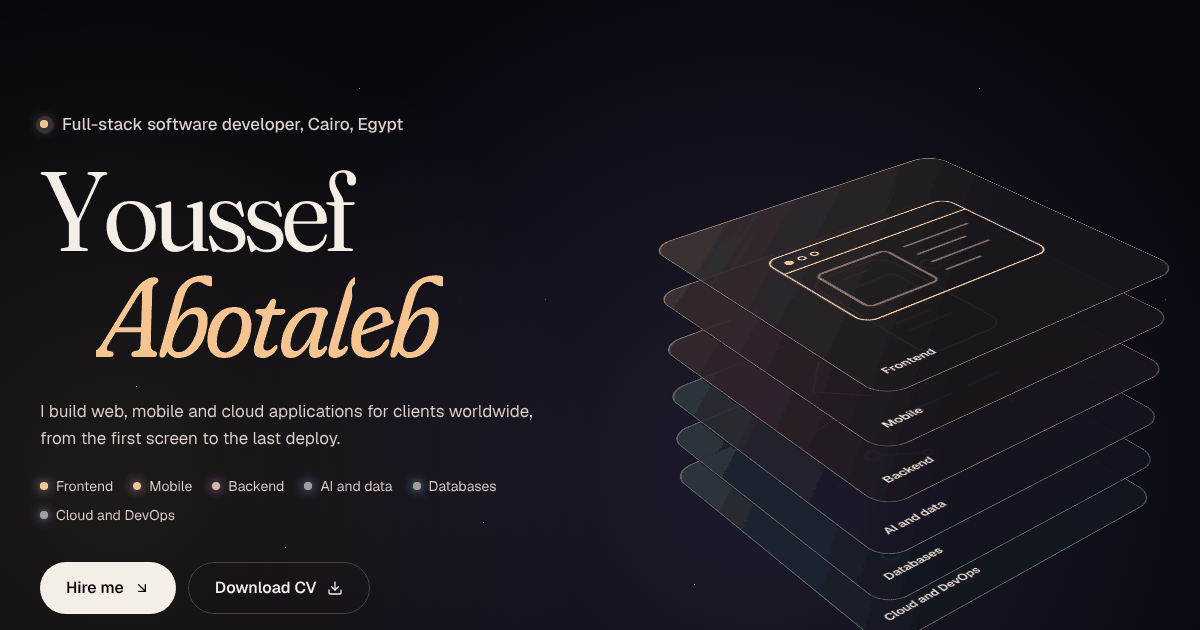
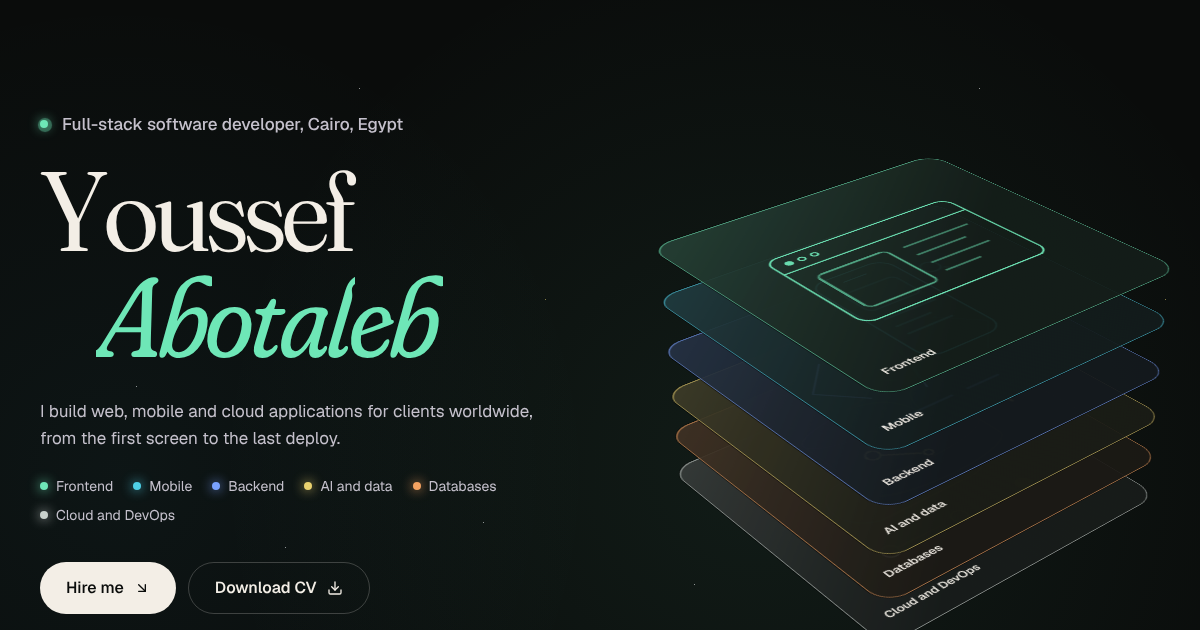
Swap the purple and peach glow for a graphite and mint colour scheme

diff --git a/src/index.css b/src/index.css
@@ -7,14 +7,14 @@
    Six plates (frontend to cloud) float in depth; each owns one hue, and
    every project and skill borrows the hue of the layer it belongs to. */
 @theme {
-  --color-night: #07080d;
-  --color-night-2: #0c0d15;
-  --color-plate: #12131d;
+  --color-night: #0a0c0b;
+  --color-night-2: #101312;
+  --color-plate: #141817;
   --color-ink: #f3eee6;
   --color-ink-2: #c5c1cc;
   --color-dim: #8a8798;
   --color-rule: rgb(243 238 230 / 0.1);
-  --color-glow: #f6c58f;
+  --color-glow: #6ee7b7;
   --font-display: "Fraunces Variable", "Iowan Old Style", Georgia, serif;
   --font-body: "Geist Variable", system-ui, sans-serif;
 }
@@ -42,7 +42,7 @@ body { margin: 0; background: var(--color-night); overflow-x: clip; }
 ::selection { background: var(--color-glow); color: var(--color-night); }
 :focus-visible { outline: 2px solid var(--color-glow); outline-offset: 3px; border-radius: 4px; }
 
-html { scrollbar-color: #2b2c3a var(--color-night); scrollbar-width: thin; }
+html { scrollbar-color: #2a302e var(--color-night); scrollbar-width: thin; }
 
 /* ── Type ───────────────────────────────────────────── */
 .display {
@@ -105,11 +105,11 @@ html { scrollbar-color: #2b2c3a var(--color-night); scrollbar-width: thin; }
   background-image:
     radial-gradient(1px 1px at 12% 18%, #fff 50%, transparent 51%),
     radial-gradient(1px 1px at 78% 8%, #fff 50%, transparent 51%),
-    radial-gradient(1.5px 1.5px at 34% 62%, #f6c58f 50%, transparent 51%),
+    radial-gradient(1.5px 1.5px at 34% 62%, #6ee7b7 50%, transparent 51%),
     radial-gradient(1px 1px at 58% 38%, #fff 50%, transparent 51%),
-    radial-gradient(1.5px 1.5px at 88% 72%, #a98bf0 50%, transparent 51%),
+    radial-gradient(1.5px 1.5px at 88% 72%, #e9d16f 50%, transparent 51%),
     radial-gradient(1px 1px at 22% 86%, #fff 50%, transparent 51%),
-    radial-gradient(1px 1px at 66% 90%, #6fd6cf 50%, transparent 51%),
+    radial-gradient(1px 1px at 66% 90%, #c8d1cc 50%, transparent 51%),
     radial-gradient(1px 1px at 46% 12%, #fff 50%, transparent 51%);
   background-size: 620px 620px;
 }
@@ -121,7 +121,7 @@ html { scrollbar-color: #2b2c3a var(--color-night); scrollbar-width: thin; }
   position: absolute; inset: 0; border-radius: 26px;
   border: 1px solid color-mix(in oklab, var(--c) 62%, transparent);
   background:
-    linear-gradient(140deg, color-mix(in oklab, var(--c) 26%, #0b0c13) 0%, color-mix(in oklab, var(--c) 7%, #0b0c13) 62%);
+    linear-gradient(140deg, color-mix(in oklab, var(--c) 26%, #0d100f) 0%, color-mix(in oklab, var(--c) 7%, #0d100f) 62%);
   color: var(--c);
   box-shadow: 0 0 0 1px rgb(0 0 0 / 0.5), inset 0 1px 0 color-mix(in oklab, var(--c) 55%, transparent);
   opacity: 0.94;

diff --git a/src/components/Hero.jsx b/src/components/Hero.jsx
@@ -47,8 +47,8 @@ function MobileHero() {
   return (
     <section id="top" ref={ref} className="relative overflow-hidden">
       <motion.div className="stars" style={{ y: reduce ? 0 : starsY }} />
-      <div className="aura right-[-40%] top-[-12%] h-[110vw] w-[110vw]" style={{ '--c': '#a98bf0', opacity: 0.45 }} />
-      <div className="aura bottom-[-25%] left-[-45%] h-[110vw] w-[110vw]" style={{ '--c': '#f6c58f', opacity: 0.28 }} />
+      <div className="aura right-[-40%] top-[-12%] h-[110vw] w-[110vw]" style={{ '--c': '#6ee7b7', opacity: 0.22 }} />
+      <div className="aura bottom-[-25%] left-[-45%] h-[110vw] w-[110vw]" style={{ '--c': '#4fd1e8', opacity: 0.14 }} />
 
       <div className="relative mx-auto flex min-h-[100svh] max-w-[720px] flex-col px-5 pb-8 pt-[84px]">
         <motion.p {...fade(0.1)} className="flex w-fit items-center gap-2.5 rounded-full border border-rule bg-night/60 px-3.5 py-1.5 text-[13.5px] text-ink-2">
@@ -114,8 +114,8 @@ function DesktopHero() {
     <section id="top" ref={ref} className="relative overflow-hidden">
       <motion.div className="stars" style={{ y: reduce ? 0 : starsY }} />
       <motion.div style={{ y: reduce ? 0 : auraY }} className="pointer-events-none absolute inset-0">
-        <div className="aura right-[-18%] top-[-10%] h-[90vmax] w-[90vmax] lg:right-[-8%]" style={{ '--c': '#a98bf0', opacity: 0.5 }} />
-        <div className="aura bottom-[-30%] left-[-30%] h-[80vmax] w-[80vmax]" style={{ '--c': '#f6c58f', opacity: 0.32 }} />
+        <div className="aura right-[-18%] top-[-10%] h-[90vmax] w-[90vmax] lg:right-[-8%]" style={{ '--c': '#6ee7b7', opacity: 0.24 }} />
+        <div className="aura bottom-[-30%] left-[-30%] h-[80vmax] w-[80vmax]" style={{ '--c': '#4fd1e8', opacity: 0.16 }} />
       </motion.div>
 
       <div className="relative mx-auto grid min-h-[100svh] max-w-[1500px] items-center gap-2 px-5 pb-16 pt-16 md:px-10 lg:grid-cols-[minmax(0,6fr)_minmax(0,5fr)] lg:gap-6 lg:pb-20 lg:pt-28">

diff --git a/src/components/Contact.jsx b/src/components/Contact.jsx
@@ -65,17 +65,17 @@ export default function Contact() {
             <h3 className="display text-[clamp(30px,3vw,44px)]">Hiring for a project?</h3>
             <p className="mt-3 text-ink-2">Book me on a platform with milestone payments, or email the brief.</p>
             <div className="mt-7 border-t border-rule">
-              <Row href={ME.upwork} icon={SiUpwork} label="Upwork" note="Hire with milestones" color="#6fd6cf" />
-              <Row href={ME.fiverr} icon={SiFiverr} label="Fiverr" note="Fixed-price gigs" color="#f6c58f" />
+              <Row href={ME.upwork} icon={SiUpwork} label="Upwork" note="Hire with milestones" color="#c8d1cc" />
+              <Row href={ME.fiverr} icon={SiFiverr} label="Fiverr" note="Fixed-price gigs" color="#6ee7b7" />
             </div>
           </Rise>
           <Rise delay={0.1} className="rounded-[28px] border border-rule bg-night-2/90 p-6 md:p-10">
             <h3 className="display text-[clamp(30px,3vw,44px)]">Recruiting?</h3>
             <p className="mt-3 text-ink-2">Everything for a hiring decision: the CV, my profile and the code.</p>
             <div className="mt-7 border-t border-rule">
-              <Row href={ME.cv} icon={FiDownload} label="Download CV" note="PDF" download color="#e283b4" />
-              <Row href={ME.linkedin} icon={FaLinkedinIn} label="LinkedIn" note="Profile" color="#6fa3f7" />
-              <Row href={ME.github} icon={SiGithub} label="GitHub" note="Code" color="#a98bf0" />
+              <Row href={ME.cv} icon={FiDownload} label="Download CV" note="PDF" download color="#7aa2ff" />
+              <Row href={ME.linkedin} icon={FaLinkedinIn} label="LinkedIn" note="Profile" color="#f4a261" />
+              <Row href={ME.github} icon={SiGithub} label="GitHub" note="Code" color="#e9d16f" />
             </div>
           </Rise>
         </div>

diff --git a/src/components/About.jsx b/src/components/About.jsx
@@ -19,8 +19,8 @@ export default function About() {
         <div className="mt-14 grid gap-14 lg:grid-cols-[minmax(0,5fr)_minmax(0,7fr)] lg:gap-20">
           {/* portrait between two drifting plates of light */}
           <div ref={ref} className="relative mx-auto w-full max-w-[400px] px-6 lg:mx-0 lg:px-8">
-            <motion.span aria-hidden="true" style={{ y: reduce ? 0 : plateA, '--c': '#a98bf0' }} className="absolute -right-0 top-10 h-[72%] w-[62%] rounded-[28px] border border-[color-mix(in_oklab,var(--c)_60%,transparent)] bg-[color-mix(in_oklab,var(--c)_10%,transparent)]" />
-            <motion.span aria-hidden="true" style={{ y: reduce ? 0 : plateB, '--c': '#f6c58f' }} className="absolute bottom-6 left-0 h-[60%] w-[58%] rounded-[28px] border border-[color-mix(in_oklab,var(--c)_60%,transparent)] bg-[color-mix(in_oklab,var(--c)_8%,transparent)]" />
+            <motion.span aria-hidden="true" style={{ y: reduce ? 0 : plateA, '--c': '#4fd1e8' }} className="absolute -right-0 top-10 h-[72%] w-[62%] rounded-[28px] border border-[color-mix(in_oklab,var(--c)_60%,transparent)] bg-[color-mix(in_oklab,var(--c)_10%,transparent)]" />
+            <motion.span aria-hidden="true" style={{ y: reduce ? 0 : plateB, '--c': '#6ee7b7' }} className="absolute bottom-6 left-0 h-[60%] w-[58%] rounded-[28px] border border-[color-mix(in_oklab,var(--c)_60%,transparent)] bg-[color-mix(in_oklab,var(--c)_8%,transparent)]" />
             <motion.div
               className="relative overflow-hidden rounded-[28px] border border-rule"
               initial={reduce ? false : { clipPath: 'inset(100% 0 0 0 round 28px)' }}

diff --git a/src/components/Nav.jsx b/src/components/Nav.jsx
@@ -9,7 +9,7 @@ const LINKS = [
   { href: '#about', label: 'About' },
   { href: '#contact', label: 'Contact' },
 ]
-const COLORS = ['#f6c58f', '#e283b4', '#a98bf0', '#6fa3f7', '#6fd6cf']
+const COLORS = ['#6ee7b7', '#7aa2ff', '#e9d16f', '#f4a261', '#c8d1cc']
 
 export default function Nav() {
   const [open, setOpen] = useState(false)
@@ -61,7 +61,7 @@ export default function Nav() {
             <span className={`absolute h-[2px] w-6 rounded bg-ink transition-transform duration-300 ${open ? '-rotate-45' : 'translate-y-[5px]'}`} />
           </button>
         </div>
-        <motion.div style={{ scaleX: scrollYProgress, background: 'linear-gradient(90deg,#f6c58f,#f39c8c,#e283b4,#a98bf0,#6fa3f7,#6fd6cf)' }} className="h-[2px] origin-left" aria-hidden="true" />
+        <motion.div style={{ scaleX: scrollYProgress, background: 'linear-gradient(90deg,#6ee7b7,#4fd1e8,#7aa2ff,#e9d16f,#f4a261,#c8d1cc)' }} className="h-[2px] origin-left" aria-hidden="true" />
       </div>
 
       <AnimatePresence>

diff --git a/src/data/layers.js b/src/data/layers.js
@@ -1,12 +1,12 @@
 // The six layers of the stack. Every colour on the site comes from here:
 // a project or skill is tinted by the layer it belongs to.
 export const LAYERS = [
-  { id: 'frontend', name: 'Frontend', color: '#f6c58f' },
-  { id: 'mobile', name: 'Mobile', color: '#f39c8c' },
-  { id: 'backend', name: 'Backend', color: '#e283b4' },
-  { id: 'ai', name: 'AI and data', color: '#a98bf0' },
-  { id: 'data', name: 'Databases', color: '#6fa3f7' },
-  { id: 'cloud', name: 'Cloud and DevOps', color: '#6fd6cf' },
+  { id: 'frontend', name: 'Frontend', color: '#6ee7b7' },
+  { id: 'mobile', name: 'Mobile', color: '#4fd1e8' },
+  { id: 'backend', name: 'Backend', color: '#7aa2ff' },
+  { id: 'ai', name: 'AI and data', color: '#e9d16f' },
+  { id: 'data', name: 'Databases', color: '#f4a261' },
+  { id: 'cloud', name: 'Cloud and DevOps', color: '#c8d1cc' },
 ]
 
 export const layerColor = (id) => LAYERS.find((l) => l.id === id)?.color ?? '#b9b6c4'

diff --git a/index.html b/index.html
@@ -7,7 +7,7 @@
     <link rel="apple-touch-icon" sizes="180x180" href="%BASE_URL%apple-touch-icon.png" />
     <meta name="viewport" content="width=device-width, initial-scale=1.0, viewport-fit=cover" />
     <meta name="description" content="Youssef Abotaleb, full-stack software developer in Cairo. Web, mobile and cloud applications with React, Next.js, React Native, Node.js, Python and PHP." />
-    <meta name="theme-color" content="#07080d" />
+    <meta name="theme-color" content="#0a0c0b" />
     <meta property="og:title" content="Youssef Abotaleb | Full-stack software developer" />
     <meta property="og:description" content="Web, mobile and cloud applications, designed and built end to end." />
     <meta property="og:type" content="website" />

diff --git a/src/components/Marquee.jsx b/src/components/Marquee.jsx
@@ -3,7 +3,7 @@ import { motion, useScroll, useTransform, useReducedMotion } from 'framer-motion
 
 const A = ['React', 'Next.js', 'React Native', 'TypeScript', 'Node.js', 'Express', 'Python', 'Django', 'FastAPI', 'PHP']
 const B = ['MongoDB', 'MySQL', 'Docker', 'Kubernetes', 'GitHub Actions', 'Vercel', 'Claude API', 'OpenAI API', 'Stripe', 'Playwright']
-const COLORS = ['#f6c58f', '#f39c8c', '#e283b4', '#a98bf0', '#6fa3f7', '#6fd6cf']
+const COLORS = ['#6ee7b7', '#4fd1e8', '#7aa2ff', '#e9d16f', '#f4a261', '#c8d1cc']
 
 function Row({ items, rev, offset }) {
   const row = items.map((t, i) => (

diff --git a/src/components/Cursor.jsx b/src/components/Cursor.jsx
@@ -17,5 +17,5 @@ export default function Cursor() {
   }, [fine, x, y])
 
   if (!fine) return null
-  return <motion.div aria-hidden="true" style={{ x: sx, y: sy, '--c': '#f6c58f' }} className="aura fixed left-0 top-0 z-[1] h-[600px] w-[600px] opacity-[0.22]" />
+  return <motion.div aria-hidden="true" style={{ x: sx, y: sy, '--c': '#6ee7b7' }} className="aura fixed left-0 top-0 z-[1] h-[600px] w-[600px] opacity-[0.22]" />
 }

diff --git a/docs/ARCHITECTURE.md b/docs/ARCHITECTURE.md
@@ -59,6 +59,6 @@ GitHub Pages, deployed by `.github/workflows/deploy.yml` on every push to `main`
   - Why (2026-11-12): the first phone layout had a sideways swipe row for the concepts, which didn't scroll on Youssef's phone. A stacking card deck for the products came next and felt cluttered, so the projects now use the same index pattern as the concepts. He liked that pattern, and it keeps the page short.
   - Index rows open with a `grid-template-rows` transition, the one layout animation on the site. It only touches a small block, so it stays smooth.
 - **Content mirrors the CV.** Skill groups, project summaries, experience and education use the CV's wording and order, so a recruiter reading both sees the same story. The data files are the only place to edit.
-- **Colour carries meaning.** Six layer colours, one per part of the stack, instead of a single accent. A visitor can see at a glance which layers a project covers.
+- **Colour carries meaning.** Six layer colours, one per part of the stack, instead of a single accent. A visitor can see at a glance which layers a project covers. Since 2026-11-12 the base is a neutral graphite (`#0a0c0b`) with mint (`#6ee7b7`) as the main accent; the earlier purple and peach glow was dropped at Youssef's request. The layer colours run mint, cyan, blue, gold, amber and silver, with no purple or pink. The hex values in `Nav.jsx`, `Marquee.jsx`, `Contact.jsx`, the stars in `index.css` and `public/favicon.svg` repeat them, so change those together.
 - **Self-hosted variable fonts.** Fraunces (display) and Geist (text) come from Fontsource packages, so there is no request to a third-party font server.
 - **Reduced motion is respected.** With the system setting on, parallax, tilts, the marquee and the pinned gallery are switched off and content simply appears.
